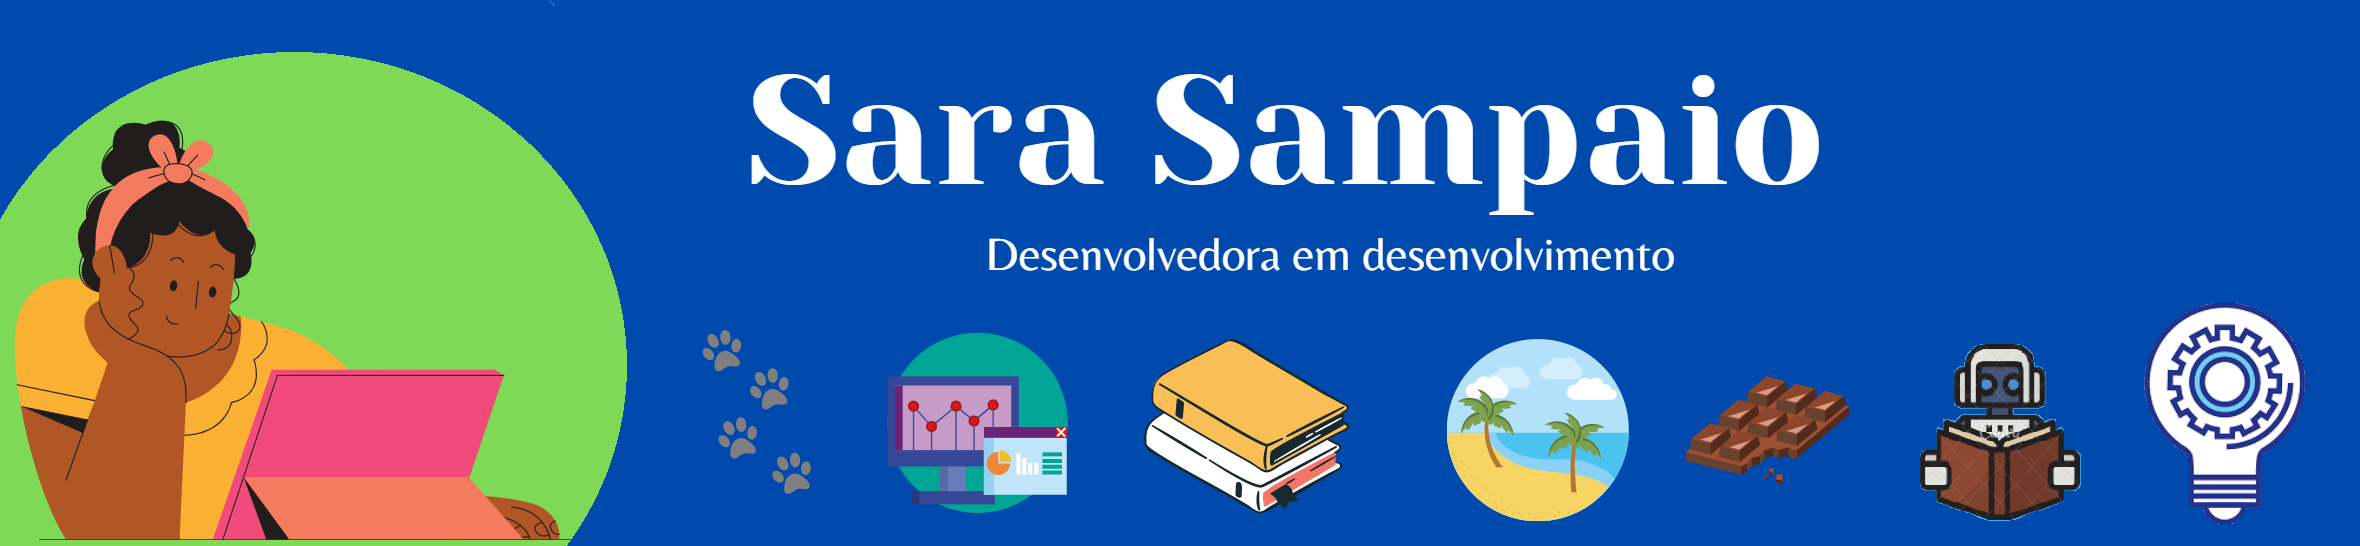
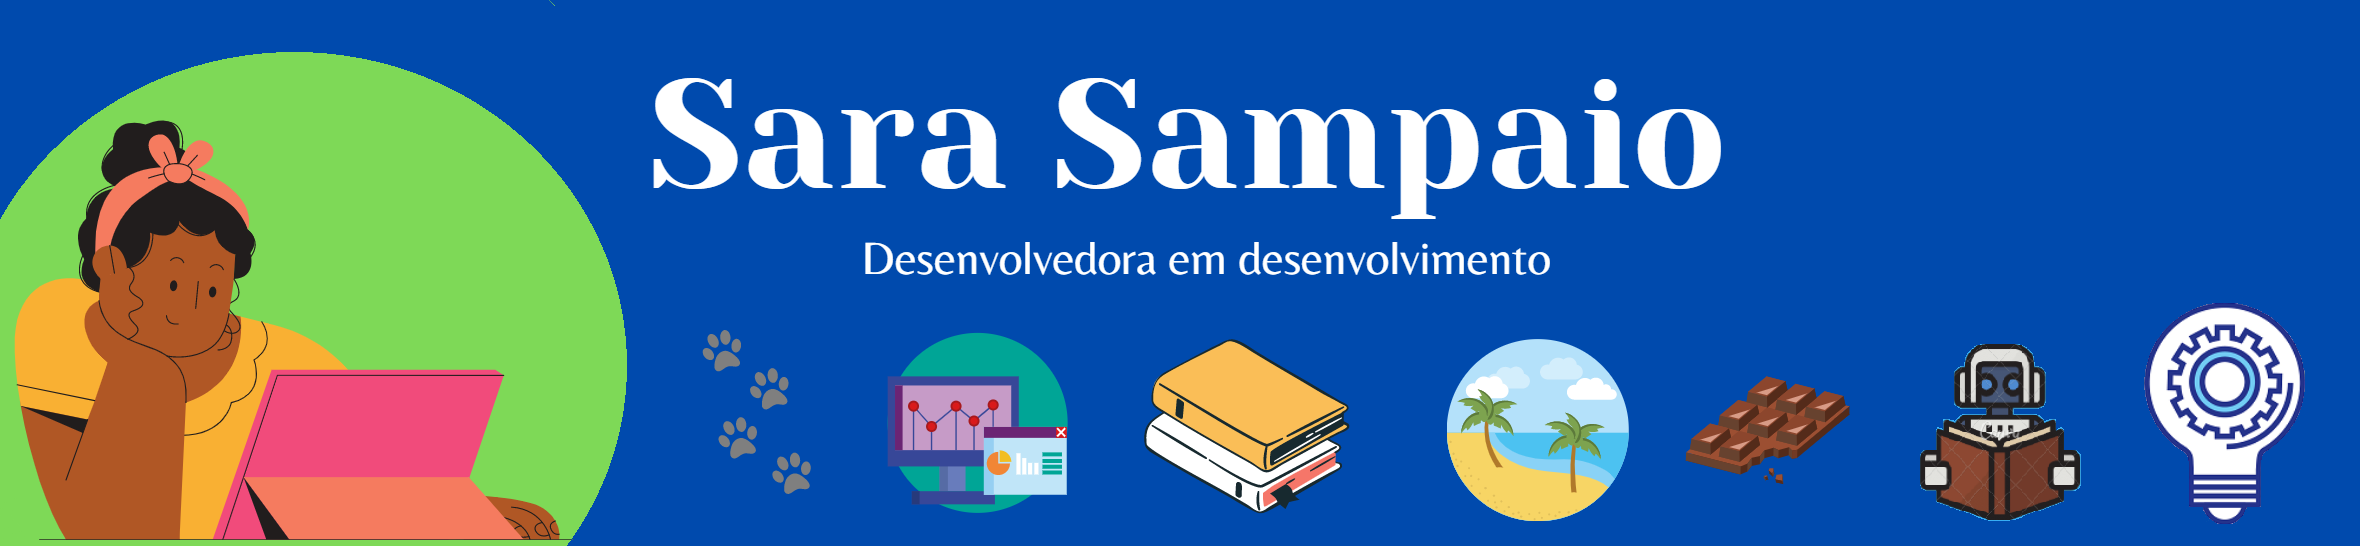
ajuste na imagem de capa, cards com tema default

Changed region(s): [[0.2784, 0.1245, 0.7733, 0.4048], [0.3712, 0.4359, 0.7114, 0.5293]]

diff --git a/readme.md b/readme.md
@@ -31,8 +31,8 @@ Onde me encontrar:
 <center>
   <table>
     <tr>
-        <td><img width="400px" align="left" src="https://github-readme-stats.vercel.app/api/top-langs/?username=SaraSampaio&hide=html&layout=compact&theme=vue" /></td>
-        <td><img width="495px" align="left" src="https://github-readme-stats.vercel.app/api?username=SaraSampaio&theme=vue"/></td>
+        <td><img width="400px" align="left" src="https://github-readme-stats.vercel.app/api/top-langs/?username=SaraSampaio&hide=html&layout=compact&theme=default" /></td>
+        <td><img width="495px" align="left" src="https://github-readme-stats.vercel.app/api?username=SaraSampaio&theme=default"/></td>
     </tr>   
   </table>
 </center> 
